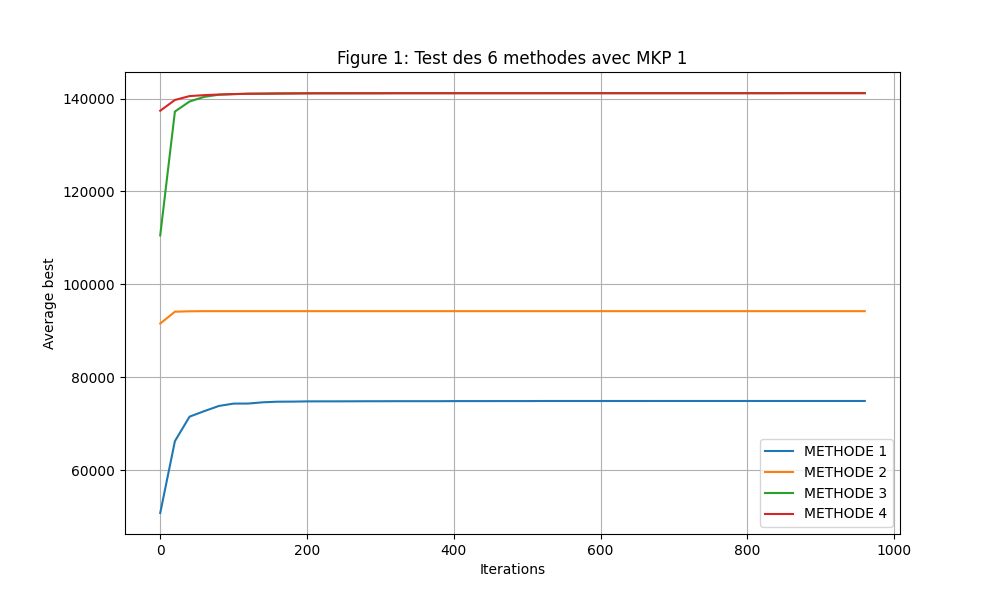
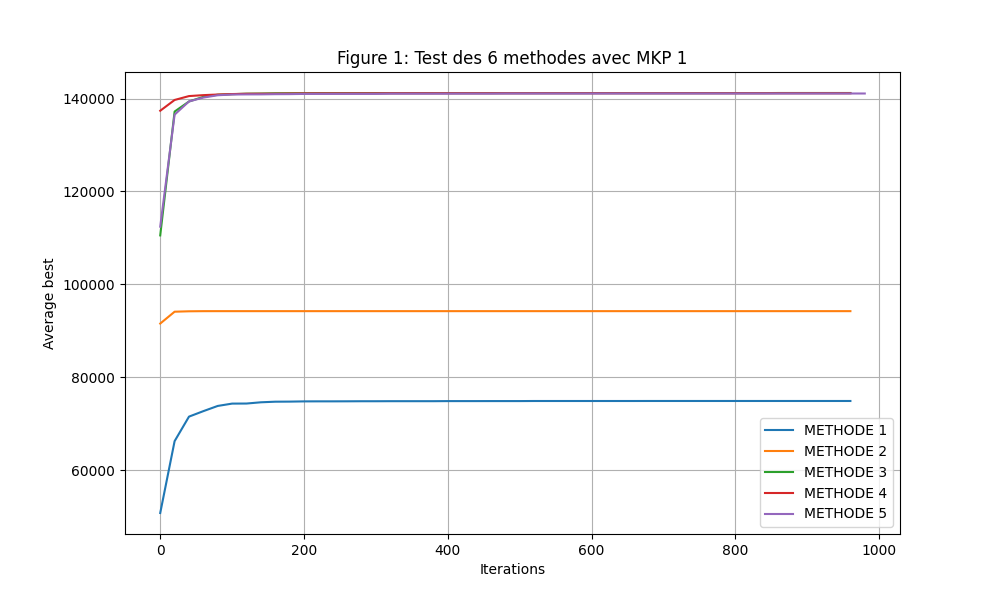
:sparkles: results generation

diff --git a/src/results_analysis/table_analysis.py b/src/results_analysis/table_analysis.py
@@ -21,16 +21,16 @@ def process_file(file_path):
 
 # Main script to process all files
 file_paths = [
-    "src/results/bga2-results/mkp1.txt",
-    "src/results/bga2-results/mkp2.txt",
-    "src/results/bga2-results/mkp3.txt",
-    "src/results/bga2-results/mkp4.txt",
-    "src/results/bga2-results/mkp5.txt",
-    "src/results/bga2-results/mkp6.txt",
-    "src/results/bga2-results/mkp7.txt",
-    "src/results/bga2-results/mkp8.txt",
-    "src/results/bga2-results/mkp9.txt",
-    "src/results/bga2-results/mkp10.txt",
+    "src/results/ameliored-genetic-results/mkp1.txt",
+    "src/results/ameliored-genetic-results/mkp2.txt",
+    "src/results/ameliored-genetic-results/mkp3.txt",
+    "src/results/ameliored-genetic-results/mkp4.txt",
+    "src/results/ameliored-genetic-results/mkp5.txt",
+    "src/results/ameliored-genetic-results/mkp6.txt",
+    "src/results/ameliored-genetic-results/mkp7.txt",
+    "src/results/ameliored-genetic-results/mkp8.txt",
+    "src/results/ameliored-genetic-results/mkp9.txt",
+    "src/results/ameliored-genetic-results/mkp10.txt",
 ]  # List of 10 file paths
 
 files_last_iterations = [process_file(file_paths[0])]
@@ -51,7 +51,7 @@ file_path_excel = "src/results/methods-results.xlsx"
 df = pd.read_excel(file_path_excel)
 
 # Write results into the "BPSO1-RESULTS" column for MKP1 to MKP10
-df.loc[:9, "GA2"] = results  # First 10 rows correspond to MKP1 to MKP10
+df.loc[:9, "MA1"] = results  # First 10 rows correspond to MKP1 to MKP10
 
 # Save the updated Excel file
 updated_file_path = "src/results/methods-results.xlsx"

diff --git a/src/results_analysis/curves_analysis.py b/src/results_analysis/curves_analysis.py
@@ -24,6 +24,7 @@ file_paths = [
     "src/results/bpso2-results/mkp",
     "src/results/bga1-results/mkp",
     "src/results/bga2-results/mkp",
+    "src/results/ameliored-genetic-results/mkp",
 ]  # List of 10 file paths
 
 all_averages = []  # List to store the averages for all files
